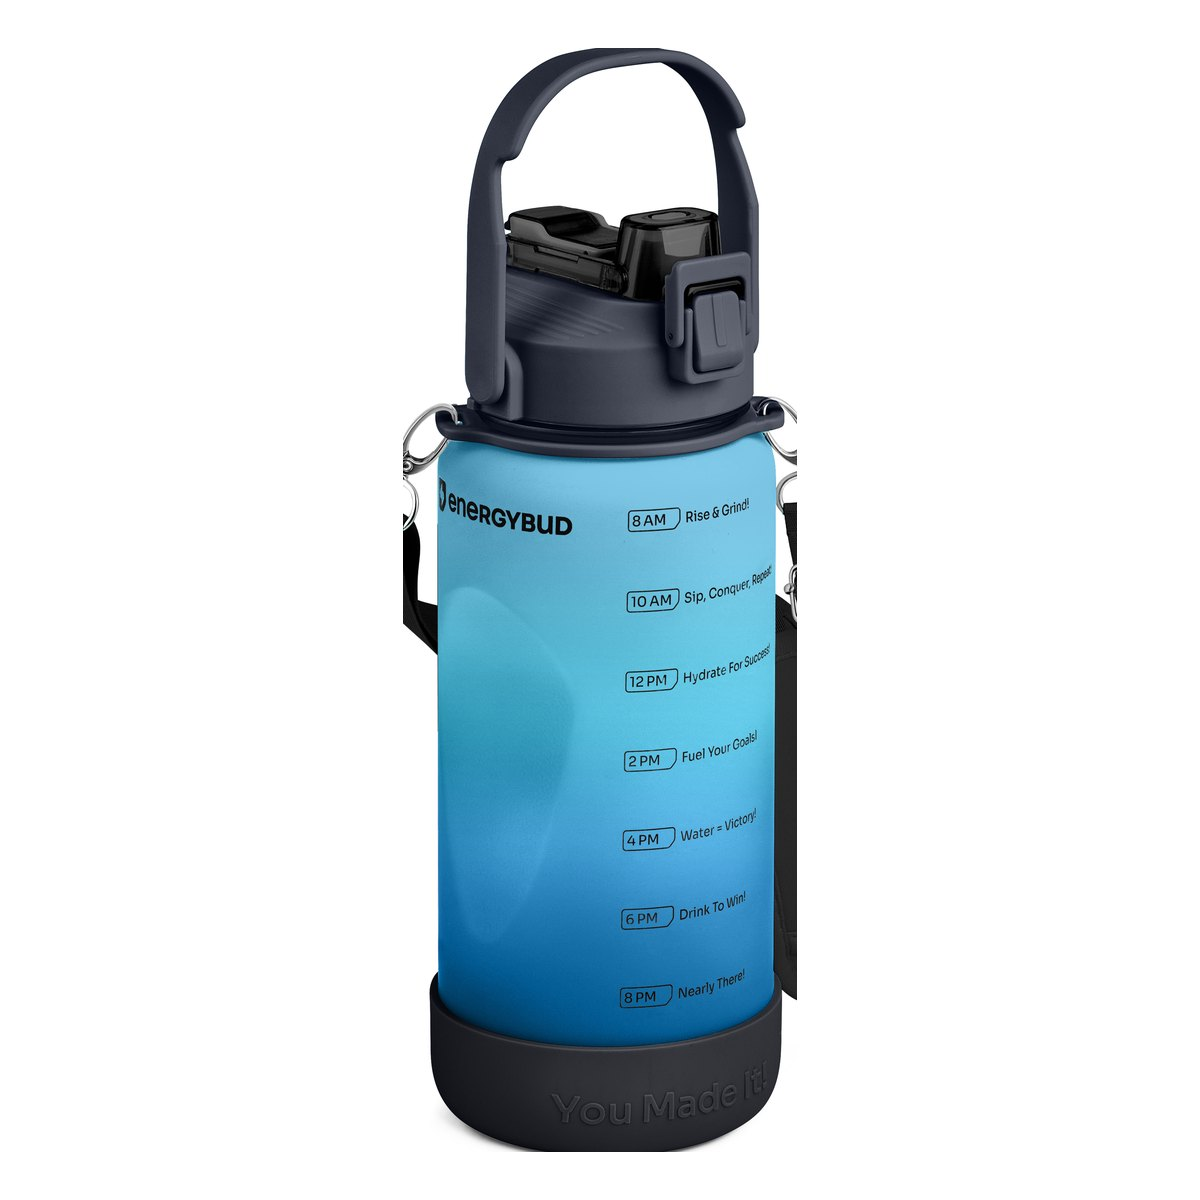
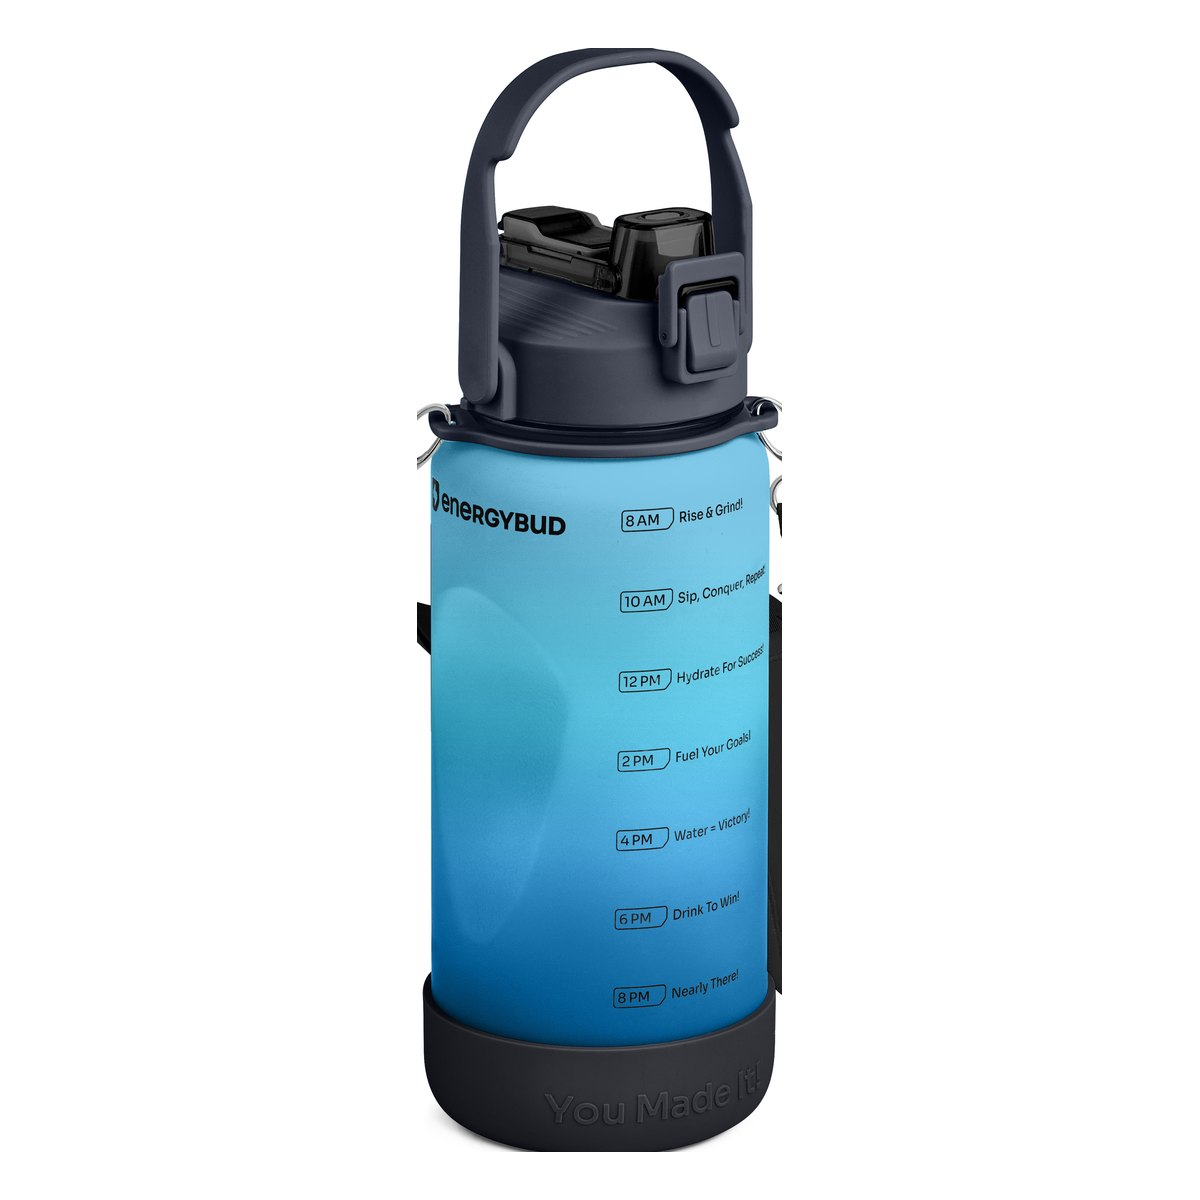
Switch on all six half-gallon colourways
All six uploads shared the filename 01_main_B.jpg, so each web commit replaced
the last and the folder ended up with one file. Every version was still in the
branch history, so all six were recovered by reading that path out of each of
the six commits — nothing needed re-uploading.

- assets/img/colors/{pink,violet,turquoise,graphite}-74.jpg added, and lime-74
  and blue-74 regenerated so all six share one crop box
- box moved to (0.076, 0.005, 0.446, 0.985): the previous one clipped the strap
  loop intruding from the left, leaving a stub at the frame edge. The new box
  clears that and the strap crossing on the right, so all six are bottle-only
- available-74.txt lists all six

Colour identification came from the gradients, not the upload order: lavender to
magenta is Pink, pink to periwinkle is Violet, turquoise to violet is Turquoise,
grey to charcoal is Graphite.

Both pages now offer the full six, and the swatch colours are shared per
colourway across sizes, so nothing shifts when moving between them.

Verified: every one of the twelve swatches loads its own photo, and 6 pages x
light/dark x 1440/390 stays clean.

Claude-Session: https://claude.ai/code/session_01578aQdjn3RvN6TiVH5BBn2

diff --git a/sites/energybud/README.md b/sites/energybud/README.md
@@ -155,13 +155,19 @@ Live today:
 | | Lime | Blue | Pink | Violet | Turquoise | Graphite |
 |---|---|---|---|---|---|---|
 | **128 oz** | yes | yes | yes | yes | yes | yes |
-| **74 oz** | yes | yes | — | — | — | — |
+| **74 oz** | yes | yes | yes | yes | yes | yes |
 
 The gallon set is cropped from the brand's six transparent-background product renders, which are
 pixel-identical apart from the bottle colour — the same crop box `(700, 120, 2180, 4360)` gives six
 shots where nothing moves but the colour. That box deliberately excludes the shoulder strap, since
-one of the six renders was supplied without it. The half-gallon pair comes the same way from the
-two `01_main_B` shots.
+one of the six renders was supplied without it.
+
+The half-gallon six come the same way from their `01_main_B` shots, crop box
+`(0.076, 0.005, 0.446, 0.985)` — chosen to clear both the strap loop that intrudes on the left and
+the strap crossing the bottle on the right, so all six are bottle-only.
+
+All twelve are 1200x1200 with the bottle centred on white, because the gallery frame is square and
+crops with `object-fit: cover` — a tall bottle image would show only its middle.
 
 The home page's swatch gradients are sampled from those renders — median of the lit face at two
 heights, which skips both the edge shadow and the specular highlight down the middle — so the
